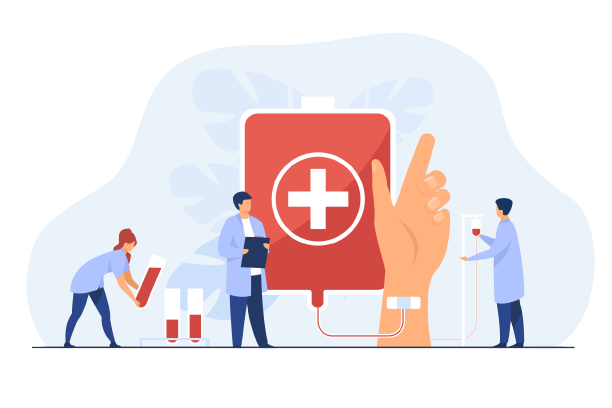
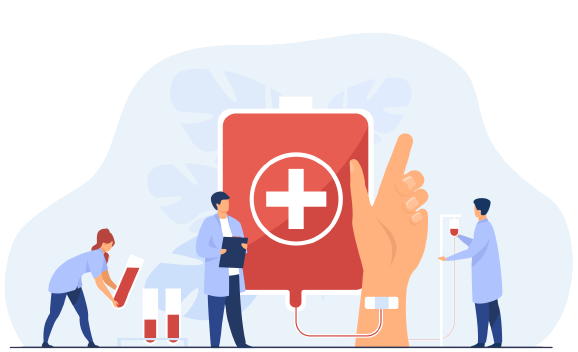
fixed margin and padding for most of the home page

Changed region(s): [[0.0311, 0.25, 0.9654, 1.0]]

diff --git a/src/Components/Home/Hero.js b/src/Components/Home/Hero.js
@@ -12,14 +12,14 @@ const Hero = () => {
 
     return (
         <Swiper spaceBetween={50} slidesPerView={1} onSlideChange={() => console.log("Slide CHange")} onSwiper={(swiper) => console.log(swiper)} autoplay={{
-            delay: 5000,
+            delay: 4000,
             disableOnInteraction: false
         }} loop={true}>
             <SwiperSlide>
-                <div className="hero pt-[30px]">
+                <div className="hero pt-[30px] lg:mx-[10px]">
                     <div className="hero-content flex-col lg:flex-row-reverse">
-                        <img src={img} className="rounded-lg md:w-[50%]" alt="hero" />
-                        <div className="lg:w-[50%]">
+                        <img src={img} className="rounded-lg md:w-[60%]" alt="hero" />
+                        <div className="lg:w-[40%]">
                             <h1 className="text-5xl font-bold lg:md:text-left text-center">Be a <span className="text-primary">Hero</span>, Donate Blood!</h1>
                             <p className="py-6 text-1xl font-normal text-[#555] lg:md:text-left text-center">Connect to Blood connects donors with local hospitals. Give the gift of life and help save lives in your community. Join us today.</p>
                             <div className="lg:md:block flex justify-center items-center">
@@ -27,26 +27,14 @@ const Hero = () => {
                             </div>
                         </div>
                     </div>
-                </div></SwiperSlide>
-            <SwiperSlide>
-                <div className="hero pt-[30px]">
-                    <div className="hero-content flex-col lg:flex-row-reverse">
-                        <img src={img} className="rounded-lg md:w-[50%]" alt="hero" />
-                        <div className="lg:w-[50%]">
-                            <h1 className="text-5xl font-bold lg:md:text-left text-center"><span className="text-primary">Connect to Blood - </span>Be the Lifeline</h1>
-                            <p className="py-6 text-1xl font-normal text-[#555] lg:md:text-left text-center">Connect to Blood is a platform that connects blood donors with clients in need of blood. Your contribution can be the lifeline for someone in critical condition. Sign up today and become a part of this life-saving community.</p>
-                            <div className="lg:md:block flex justify-center items-center">
-                                <button className="btn btn-outline border-secondary text-black border-2 hover:bg-primary hover:border-primary">Register as a donor</button>
-                            </div>
-                        </div>
-                    </div>
                 </div>
             </SwiperSlide>
+
             <SwiperSlide>
-                <div className="hero pt-[30px]">
+                <div className="hero pt-[30px] lg:mx-[10px]">
                     <div className="hero-content flex-col lg:flex-row-reverse">
-                        <img src={img} className="rounded-lg md:w-[50%]" alt="hero" />
-                        <div className="lg:w-[50%]">
+                        <img src={img} className="rounded-lg md:w-[60%]" alt="hero" />
+                        <div className="lg:w-[40%]">
                             <h1 className="text-5xl font-bold lg:md:text-left text-center"><span className="text-primary">Connect to Blood - </span>Bridging the Gap</h1>
                             <p className="py-6 text-1xl font-normal text-[#555] lg:md:text-left text-center">Connect to Blood is a bridge between donors and clients, filling the gap between those who need blood and those who can give it. By donating blood, you can make a difference in someone's life. Join us in this mission to save lives.</p>
                             <div className="lg:md:block flex justify-center items-center">

diff --git a/src/Components/Home/News.js b/src/Components/Home/News.js
@@ -19,13 +19,15 @@ const News = () => {
         loading ? <div className="flex justify-center items-center min-h-screen">
           <div className="loader"></div>
         </div> : <>
-          <h1 className="text-center my-[20px] text-5xl font-bold">
+          <h1 className="text-center mt-[40px] mb-[20px] text-5xl font-bold">
             Latest <span className="text-primary">Blog</span>
           </h1>
-          <div className=" w-[85%] mx-auto place-items-center py-4 grid lg:grid-cols-3 md:grid-cols-1 grid-cols-1 gap-4 mt-[20px]">
-            {
-              news?.map((news, index) => index < 3 && (<NewsCard news={news} />))
-            }
+          <div className="flex justify-center items-center">
+            <div className=" w-[85%] mx-auto place-items-center py-4 grid lg:grid-cols-3 md:grid-cols-1 grid-cols-1  mt-[20px]">
+              {
+                news?.map((news, index) => index < 3 && (<NewsCard news={news} />))
+              }
+            </div>
           </div>
         </>
       }

diff --git a/src/Components/Home/NewsCard.js b/src/Components/Home/NewsCard.js
@@ -6,9 +6,9 @@ import { Link } from 'react-router-dom';
 const NewsCard = ({ news }) => {
     console.log(news)
     return (
-        <div className="card card-compact rounded-b-md rounded-t-none w-96 bg-base-100 shadow-none h-[500px]">
+        <div className="card card-compact rounded-b-md rounded-t-none w-96 bg-base-100 shadow-none h-[480px] mr-[18px] mt-[26px]">
             <figure>
-                <img src={news?.img} alt="blood pressure images" className="h-[250px] w-[100%]" />
+                <img src={news?.img} alt="blood pressure images" className="h-[250px] object-cover   bg-center w-[100%]" />
             </figure>
             <div className="card-body">
                 <h3 className="card-title">{news?.title}</h3>

diff --git a/src/Components/Home/InfoCards.js b/src/Components/Home/InfoCards.js
@@ -26,10 +26,12 @@ const InfoCards = () => {
     },
   ];
   return (
-    <div className=" w-[85%] mx-auto place-items-center py-4 grid lg:grid-cols-3 md:grid-cols-1 grid-cols-1 gap-4">
-      {
-        InfoData.map(info => <InfoCard img={info.img} title={info.title} description={info.description}></InfoCard>)
-      }
+    <div className="flex justify-center items-center">
+      <div className=" w-[85%] mx-auto place-items-center py-4 grid lg:grid-cols-3 md:grid-cols-2 grid-cols-1 gap-4">
+        {
+          InfoData.map(info => <InfoCard img={info.img} title={info.title} description={info.description}></InfoCard>)
+        }
+      </div>
     </div>
   );
 };

diff --git a/src/Components/Home/InfoCard.js b/src/Components/Home/InfoCard.js
@@ -2,7 +2,7 @@ import React from 'react';
 
 const InfoCard = (data) => {
     return (
-        <div className="card w-96 bg-base-100 shadow-xl">
+        <div className="card w-96 bg-base-100 shadow-lg mr-[20px] lg:md:mb-[0px] mb-[10px]">
             <figure className="pt-10">
                 <img
                     className="w-14"

diff --git a/src/Pages/Home.js b/src/Pages/Home.js
@@ -19,8 +19,7 @@ const Home = () => {
             <About />
             <InfoCards />
             <News />
-            <Reviews />
-            <Stats />
+            {/* <Stats /> */}
             <Steps />
             <Faq />
         </div>
